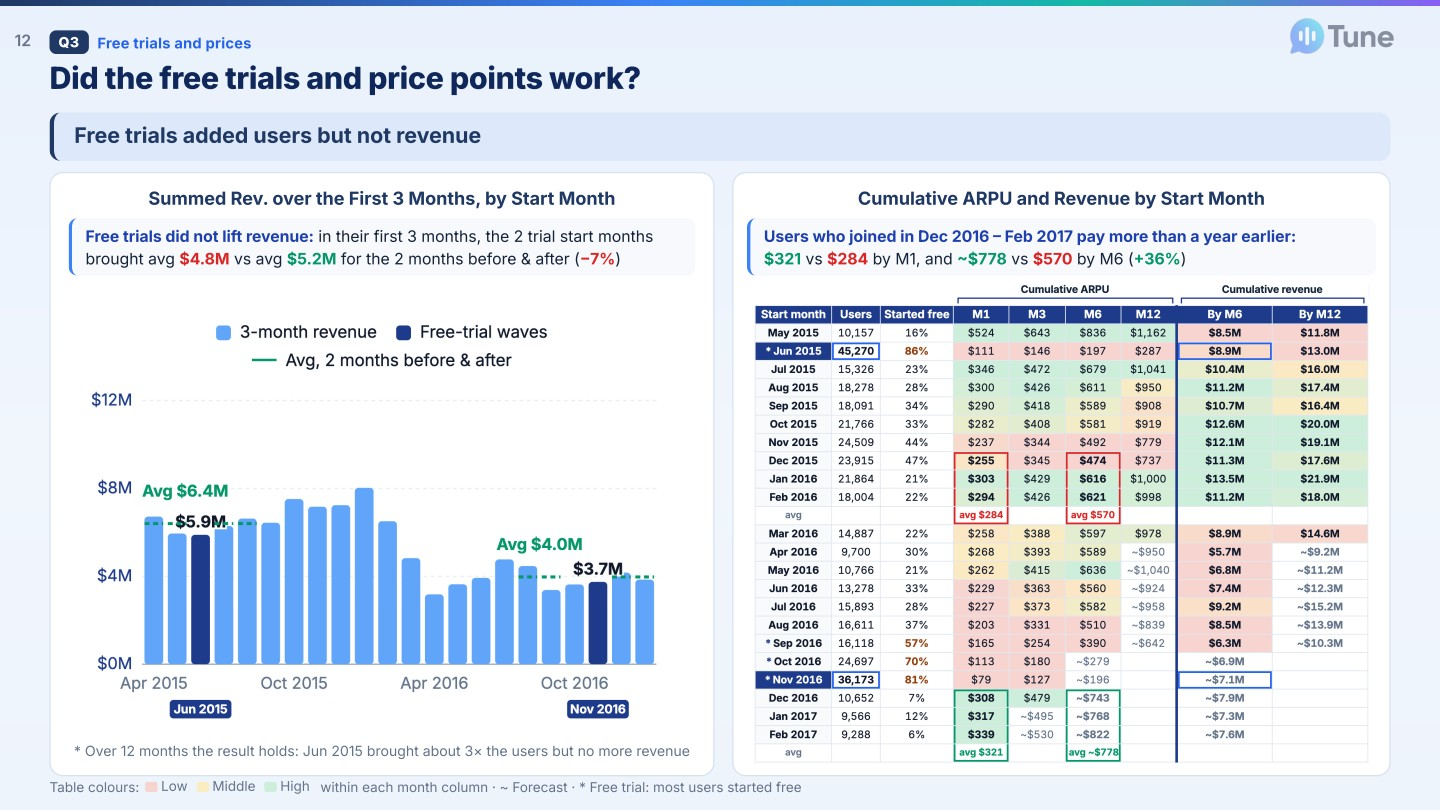
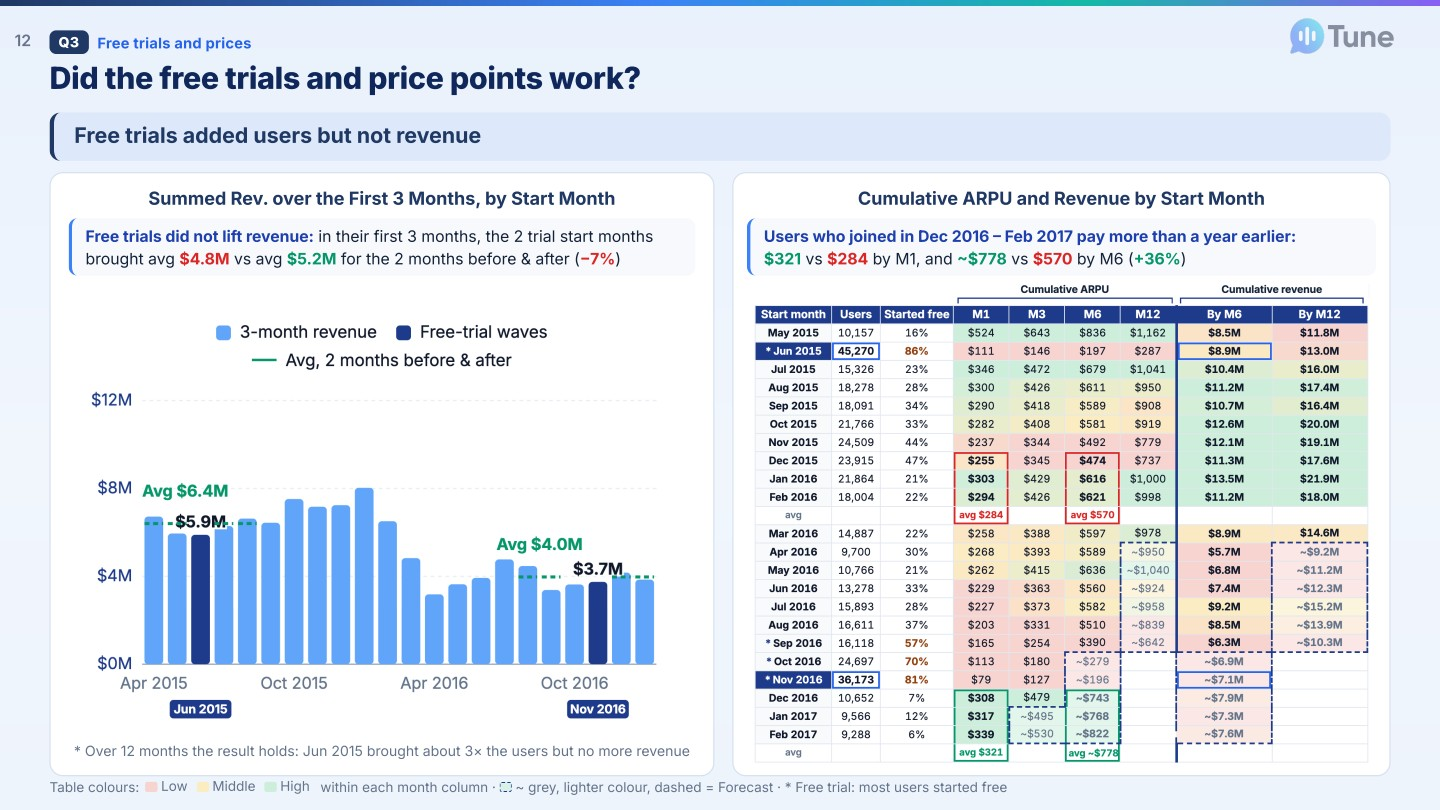
Deck slide 12: forecast cells in the free-trial matrix get a lighter colour and a dashed outline

diff --git a/index.html b/index.html
@@ -3726,7 +3726,7 @@ const ISSUES = { raw_users: "U1-U11: age 0 or out of range, gender missing, regi
   raw_churn_labels: "L4-L7: labels don't match a naive 'due in March' population" };
 
 // ---------------- tabs ----------------
-const DECKV = "1118mv10";  // change on every deck update so browsers load the new slide images, not a cached copy
+const DECKV = "1118fc12";  // change on every deck update so browsers load the new slide images, not a cached copy
 const GROUPS = {
   intro: [["overview", "Overview"]],
   p1: [["dq", "1a · Data quality"], ["lineage", "1b.1 · Clean layer & data model"], ["explorer", "1b.2 · Explorer & SQL"], ["churn", "1c · Churn check"]],
